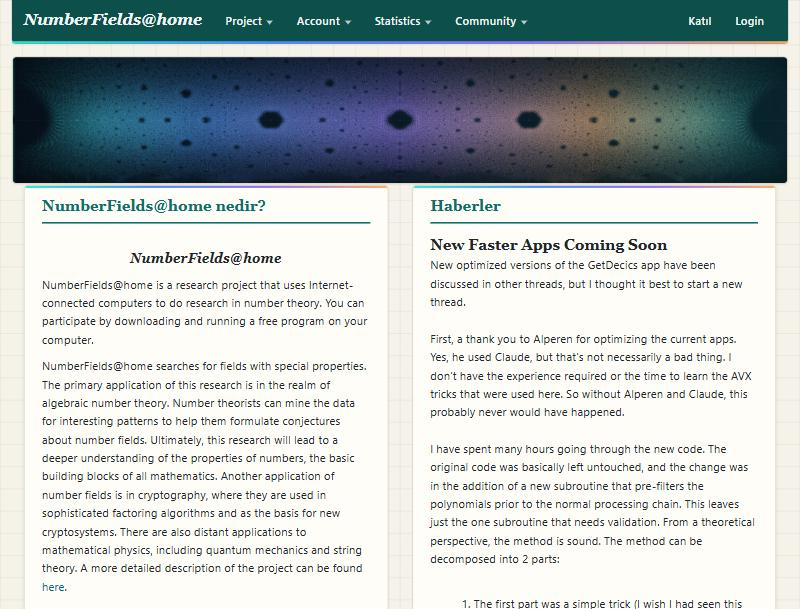
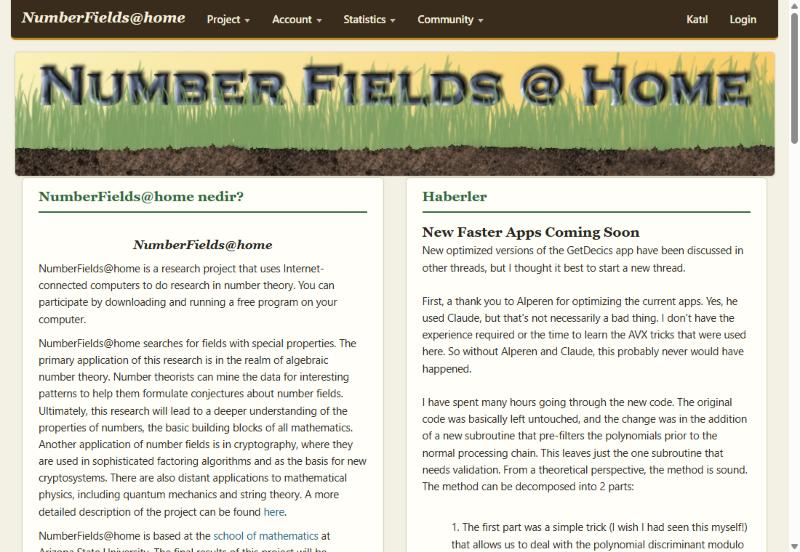
Theme: README and screenshots for Meadow

diff --git a/theme/README.md b/theme/README.md
@@ -1,8 +1,8 @@
-# Chalk and Paper - a theme for NumberFields@home
+# Meadow - a theme for NumberFields@home
 
-A scholarly light and dark theme for the NumberFields@home web site: serif headings, deep teal with copper accents,
-warm paper in the light mode and ink blue in the dark mode. The BOINC pages, tables and forums keep their structure.
-It follows the light/dark setting of your system and works on phones.
+A light and dark theme for the NumberFields@home web site whose colours come from the site's own banner: grass green,
+soil brown, sky gold and the blue-grey of its letters, with serif headings. The BOINC pages, tables and forums keep their
+structure. It follows the light/dark setting of your system and works on phones.
 
 Coded By Alperen Yavuz · <https://github.com/alplix/passiflora>
 
@@ -12,10 +12,7 @@ Coded By Alperen Yavuz · <https://github.com/alplix/passiflora>
 
 ## What changes
 
-- the banner: the roots, in the complex plane, of every degree-10 polynomial with coefficients -1, 0 or 1 (the project
-  searches degree-10 fields). The dark holes are roots of unity; the colour is the argument of the root. It is drawn by
-  `make-banner.py`; in `white.css` the picture is `nf-passiflora-banner.jpg`, which must sit next to it;
-- colours, type, panels, tables, forms and buttons, in light and dark, with a thin graph-paper texture;
+- colours, type, panels, tables, forms and buttons, in light and dark;
 - a menu bar that groups the links the site already has (Project, Account, Statistics, Community); on the home page it
   reads the link texts of the site itself, so they follow the visitor's language;
 - the home page's system requirements, which described hardware from 2010 (128 MB of RAM, 32 MB of disk,
@@ -40,7 +37,7 @@ userscript manager, then open:
 `/NumberFields/white.css`). The site's pages already load it, so nothing else changes:
 
 1. Keep a copy of the current `white.css`.
-2. Copy `white.css` and `nf-passiflora-banner.jpg` from this folder into the same web folder (the first replaces the old file).
+2. Copy `theme/white.css` from this folder over it.
 
 To go back, restore the copy. The theme only uses the classes the BOINC web pages and Bootstrap 3 already produce.
 The requirements list is page content: the five lines are in `enhance.js` if you want to put them into the home page.
@@ -51,8 +48,6 @@ The requirements list is page content: the five lines are in `enhance.js` if you
 |---|---|
 | `theme.css` | the stylesheet (source) |
 | `enhance.js` | the grouped menu and the corrected requirements list (source) |
-| `make-banner.py` | draws the banner (`nf-passiflora-banner.jpg`) |
-| `nf-passiflora-banner.jpg` | the banner, for `white.css` |
 | `build.py` | builds the three files below from the sources |
 | `numberfields-passiflora.user.js` | userscript |
 | `numberfields-passiflora.user.css` | Stylus user style |
